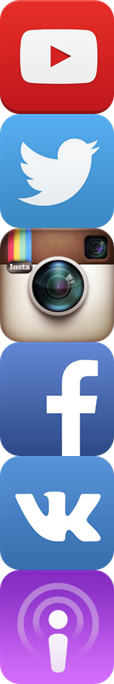
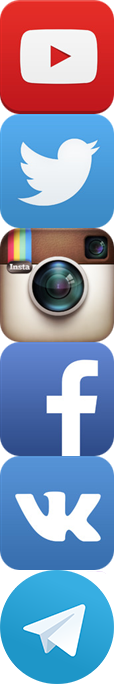
update

Changed region(s): [[0.0, 0.8289, 1.0, 1.0]]

diff --git a/index.html b/index.html
@@ -25,11 +25,12 @@
       </div><!-- /.content -->
 
       <ul class="social">
-        <li class="social__item"><a href="http://www.youtube.com/wylsacom"><i class="icon-yt">YouTube</i></a></li>
-        <li class="social__item"><a href="https://twitter.com/wylsacom"><i class="icon-tw">Twitter</i></a></li>
-        <li class="social__item"><a href="http://instagram.com/wylsacom"><i class="icon-ig">Instagram</i></a></li>
-        <li class="social__item"><a href="https://www.facebook.com/wylcom"><i class="icon-fb">Facebook</i></a></li>
-        <li class="social__item"><a href="http://vk.com/wylsacom"><i class="icon-vk">VKontakte</i></a></li>
+        <li class="social__item"><a target="blank" href="http://www.youtube.com/videokoran"><i class="icon-yt">YouTube</i></a></li>
+        <li class="social__item"><a target="blank" href="https://twitter.com/videokoran"><i class="icon-tw">Twitter</i></a></li>
+        <li class="social__item"><a target="blank" href="http://instagram.com/videokoran"><i class="icon-ig">Instagram</i></a></li>
+        <li class="social__item"><a target="blank" href="https://www.facebook.com/videokoran"><i class="icon-fb">Facebook</i></a></li>
+        <li class="social__item"><a target="blank" href="http://vk.com/videokoran"><i class="icon-vk">VKontakte</i></a></li>
+        <li class="social__item"><a target="blank" href="https://telegram.me/videokoran"><i class="icon-it">Telegram</i></a></li>
       </ul><!-- /.social -->
     </div><!-- /.wrapper -->
 
